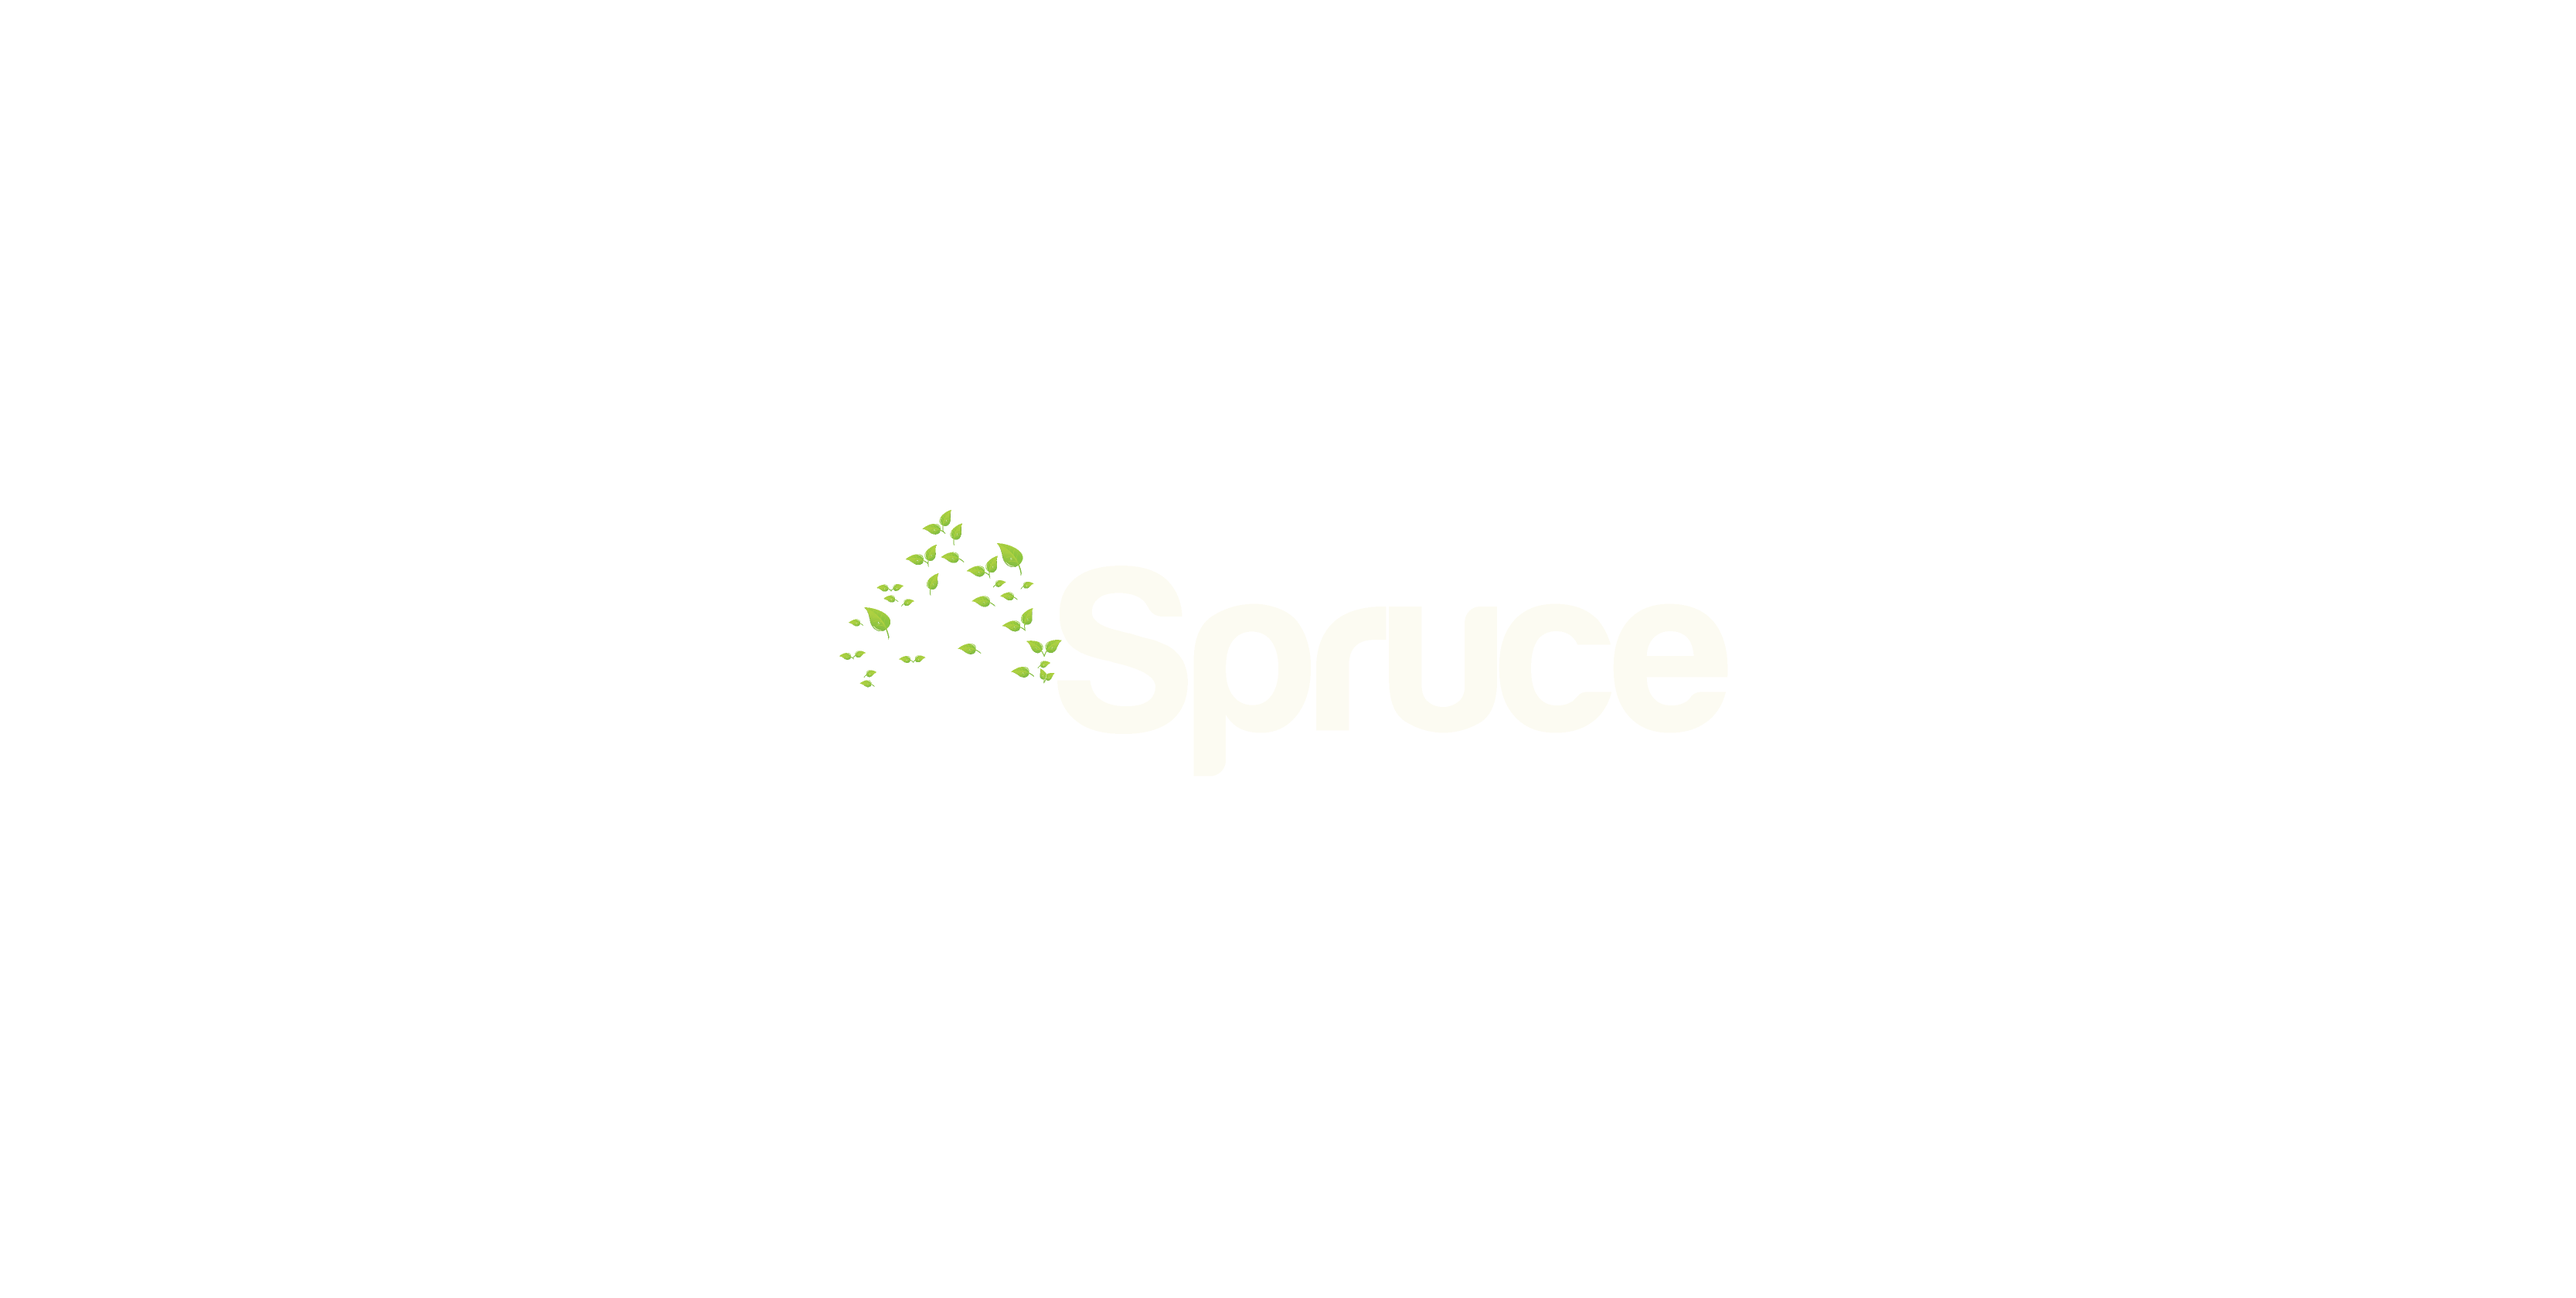
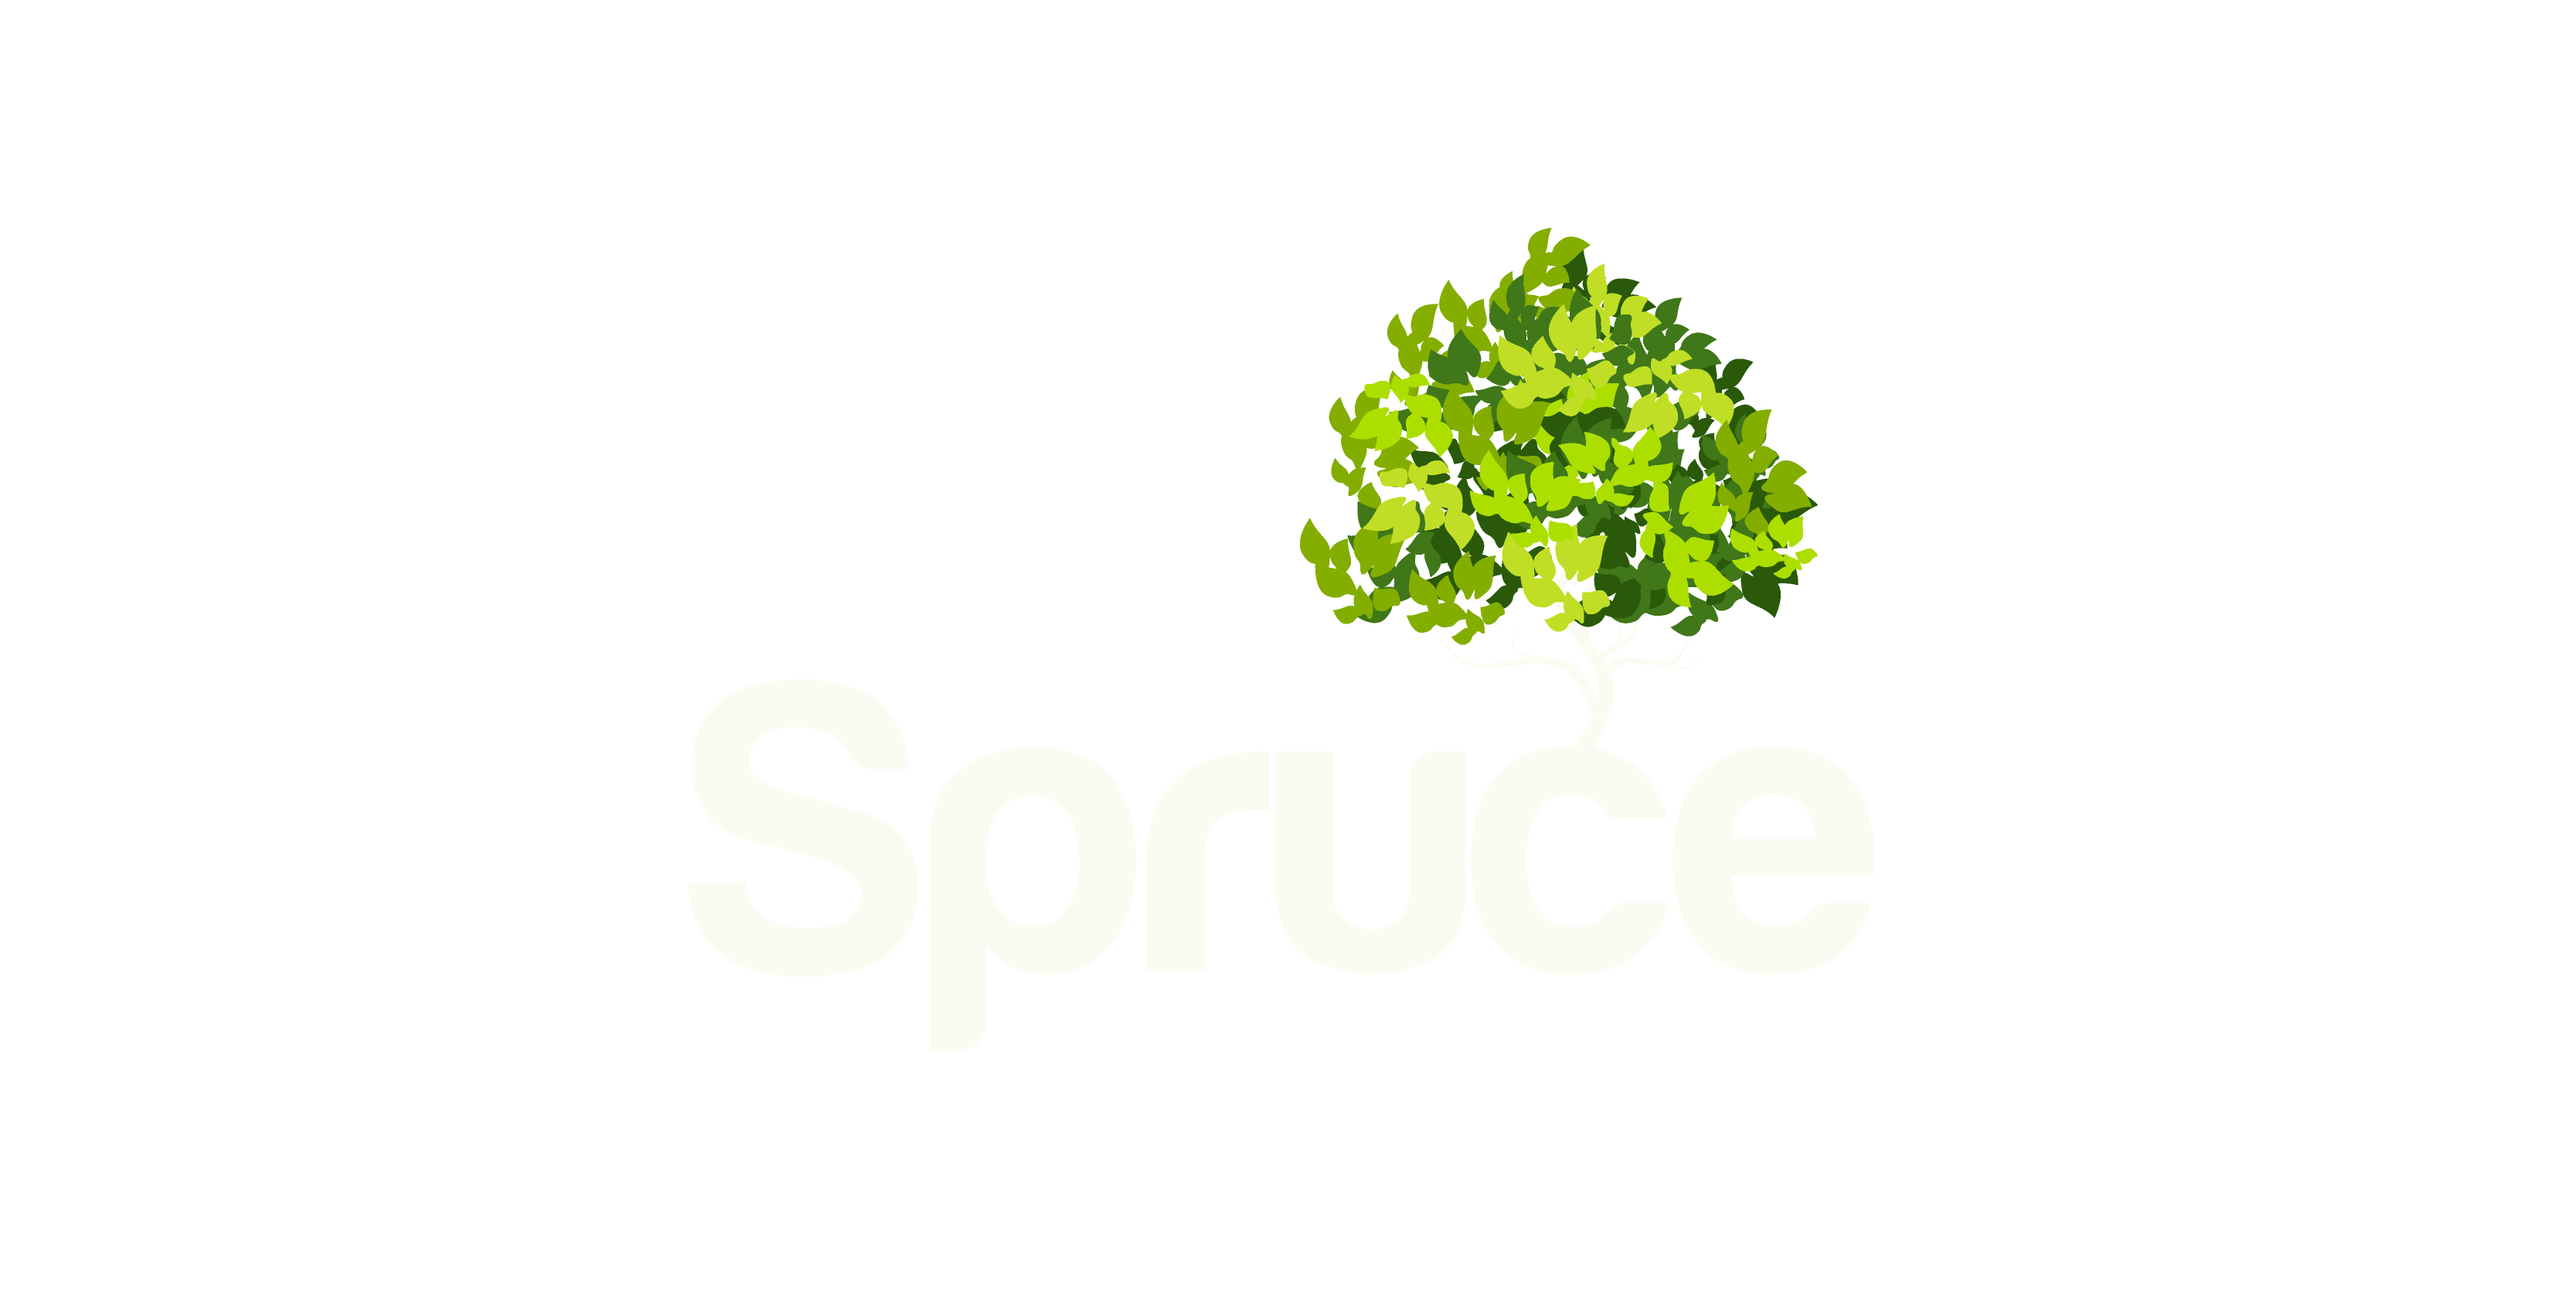
first demo of landing page

Changed region(s): [[0.4992, 0.1857, 0.7177, 0.4952], [0.3432, 0.4024, 0.4056, 0.5262], [0.312, 0.4643, 0.3432, 0.4952]]

diff --git a/app/partials/index2.html b/app/partials/index2.html
@@ -1,47 +1,75 @@
 <div ng-controller="HomeCtrl" ng-init="">
+    <!--<div class="large-12 columns header"><img class="home-logo" src="/app/img/spruce.png" /></div>-->
+    <div class="large-12 columns header text-center">
 
+      <h1 class="superbig">Feel better</h1>
+      <h2>by countering irrational thinking</h2>
 
-    <div class="row  main">
-      <div class="row">
-        <div class="large-6 columns  small-centered text-center">
-        <p class="equation-text">Spruce makes you feel better.</p>
-            <a class="th radius" href="#">
-            <img src="img/spruce.png">
-            </a>
+      <h1 class="form">Try it for free now</h1>
 
-        </div>
-      </div>
-      <div class="row">
-      </div>
-      <div class="row">
-        <div class="large-6 columns">
-            <h2>What's Spruce?</h2>
-            <ul>
-              <li>
-              Spruce helps you deal with your negative emotions.
-            </li>
-            <li>
-              It's quick and convenient.
-            </li>
-            <li>
-               And confidential.
-              </li>
-            </ul>
-        </div>
-        <div class="large-6 columns copy-two">
-            <h2>How does Spruce work?</h2>
-            <ul>
-              <li>
-                Emotions are a result of our thoughts. First, we help you identify what you’re thinking.
-              </li>
-              <li>
-                Once you’ve identified what you’re thinking, we help you to look at your thoughts in a more rational way, which makes you feel better about them!
-              </li>
-            </ul>
-        </div>
-      </div>
-      <div class="large-12 columns text-center">
-          <a href="#/get-started" class="button start">Get started</a>
+      <div class="row form">
+        <div class="large-2 columns"><label class="right inline"><h1>Your email</h1></label></div>
+        <div class="large-3 columns"><h1><input type="text" class="header-register"></h1></div>
+        <div class="large-2 columns"><label class="right inline"><h1>Password</h1></label></div>
+        <div class="large-3 columns"><h1><input type="text" class="header-register"></h1></div>
+        <div class="large-2 columns"><h1><button class="button register">Register</button></h1></div>
       </div>
     </div>
+
+    <div class="large-12 columns text-center">
+      <h1 class="landing-page"><span ng-click="scrollTo('more')">Find out more about Spruce ↓</span></h1>
+    </div>
+
+      <div class="large-12 columns section">
+
+      <div class="row">
+        <div class="row">
+          <div class="large-6 columns text-center">
+          </div>
+        </div>
+        <div class="row">
+          <div class="large-4 columns">
+            <h2 class="section-title">Thoughts create emotions</h2>
+            <p>It's not what happens to you, but how you think about it that makes you feel the way you do. By changing the automatic thoughts you have in response to circumstances, you can change the way you feel.</p>
+          </div>
+          <div class="large-4 columns">
+            <h2 class="section-title">Change your thoughts</h2>
+            <p>Use Spruce with a troubling concern to challenge your irrational thoughts and let go of anxiety and sadness. We'll ask you a series of questions about an upsetting situation and related thoughts then give you prompts to help revise your thoughts.</p>
+          </div>
+          <div class="large-4 columns">
+            <h2 class="section-title">Keep a journal</h2>
+            <p>You can go back to what you write at any time to review and consolidate your new more rational thinking. This helps in similar situations in the future.</p>
+          </div>
+        </div>
+      </div>
+
+    </div>
+
+    <div class="large-12 columns divider text-center">
+      See an example
+    </div>
+
+    <div class="large-12 columns section">
+      <div class="row">
+        <div class="row">
+          <div class="large-4 columns">
+            <h2 class="section-title">Convenient</h2>
+            <p>There's no lengthy sign up or questionairre. You can start using the tool immediately. You can come back to it at any time you feel you need. We've found that people use it about 2-3 times per week and feel the benefit after their first use.</p>
+          </div>
+          <div class="large-4 columns">
+            <h2 class="section-title">Confidential</h2>
+            <p>We understand that there are some things you want to talk about, and some you want to keep to yourself. You can use it totally privately without worrying if your issues are embarassing or just trivial.</p>
+          </div>
+          <div class="large-4 columns">
+            <h2 class="section-title">Who for?</h2>
+            <p>Spruce is for anyone with some form of emotional problem. It's effective for minor niggling issues like stress at work as well as more serious problems such as depression.</p>
+          </div>
+        </div>
+      </div>
+    </div>
+
+    <div class="large-12 columns footer text-center">
+      <h1>Got more questions? <a href="mailto:tom.chambers@gmail.com">Email us</a></h1>
+    </div>
+
 </div>

diff --git a/app/css/main.css b/app/css/main.css
@@ -1,3 +1,86 @@
+/* landing page */
+.header {
+	background-color: #00957B;
+	//width:100%;
+	margin-top: 0px;
+	background-image: url('/app/img/background.jpg');
+
+	background-size: 1400px;
+	background-position: center;
+	background-repeat: no-repeat;
+	padding-top: 160px;
+}
+
+.home-logo {
+	height: 150px;
+}
+
+h1.superbig {
+	font-size: 50px;
+	color: #FCFBF2;
+	margin-bottom: 0px;
+}
+
+h1.superbig + h2 {
+	color: #FCFBF2;
+	margin-top: 0px;
+	margin-bottom: 120px;
+}
+
+h1.landing-page {
+	color: #00957B;
+}
+
+h1.form, .form * h1 {
+	font-size: 20px;
+	color: #FCFBF2;
+}
+
+h1.form {
+	font-size: 30px;
+}
+
+button.button.register {
+	border-radius: 4px;
+	background-color: #FCFBF2;
+	color: #00957B;
+	border: 3px solid #6B958E;
+	max-height: 40px;
+	font-size: 15px;
+	margin: 0px;
+}
+
+input.header-register {
+	
+}
+
+.section {
+	background-color: #F8F5DD;
+	width: 100%;
+	padding-top: 40px;
+	padding-bottom: 40px;
+}
+
+.divider {
+	background-color: #ECE9D2;
+	//min-height: 13px;
+	padding: 20px;
+	font-size: 20px;
+	font-weight: bold;
+}
+
+h1.section-title {
+	color: #002C25;
+}
+
+.footer, .footer h1 {
+	background-color: #002C25;
+	color: #FCFBF2;
+}
+
+/* */
+
+
 body {
 	background-color: #ECE9D2;
 	font-family: Helvetica;
@@ -142,6 +225,7 @@ a.button:hover, button.button:hover {
 /* Top Bar Styles */
 .top-bar{
 	background:  #00957B;
+	margin-bottom: 0px;
 }
 
 .top-bar-section li a:not(.button) {

diff --git a/app/js/controllers.js b/app/js/controllers.js
@@ -234,6 +234,11 @@ spruce.
   }]).
   controller('HomeCtrl',['$scope', function($scope){
     mixpanel.track("Home");
+
+    $scope.scrollTo = function(id) {
+      $location.hash(id);
+      $anchorScroll();
+   }
   }]).
   controller('RegistrationCtrl', ['_Parse','$scope', '$location', 'sharedState', function(_parse, $scope, $location, sharedState){
   	$scope.badLogin = false;
